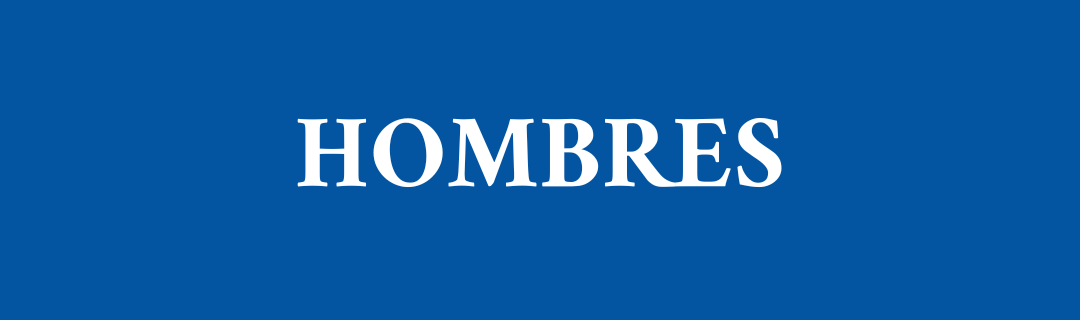
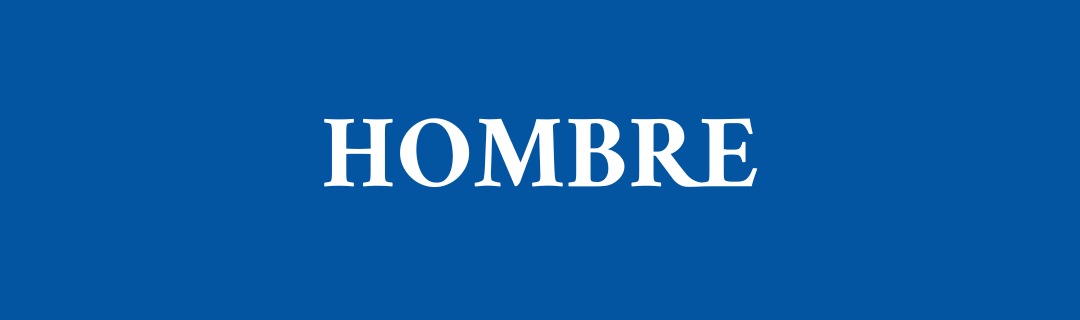
Styles Updated Home Page

Changed region(s): [[0.275, 0.3438, 0.7333, 0.5938]]

diff --git a/src/components/HomeContact/homeContact.css b/src/components/HomeContact/homeContact.css
@@ -4,15 +4,15 @@
   justify-content: center;
   align-items: center;
   width: 1120px;
-  background-color: rgb(250, 250, 250);
+  background-color: rgb(248, 248, 248);
   border-radius: 5px;
   padding: 70px;
   margin-bottom: 200px;
+  box-shadow: 2px 2px 10px 2px rgb(219, 219, 219);
 }
 
 .home-contact-title {
-  color: #000000;
-  border-bottom: 5px solid #f9c1fd;
+  color: #e54787;
   padding-bottom: 2px;
   margin-bottom: 20px;
   font-size: 40px;
@@ -30,10 +30,10 @@
   width: 80%;
   padding: 12px;
   margin-top: 50px;
-  background-color: #fff;
-  border: 2px solid rgb(235, 235, 235);
+  background-color: rgb(255, 255, 255);
   border-radius: 5px;
-  box-shadow: 2px 2px 10px 2px #e4e4e4;
+  border: 2px solid rgb(226, 226, 226);
+  box-shadow: 2px 2px 10px 2px rgb(221, 221, 221);
 }
 
 .home-contact-form-textarea {
@@ -41,11 +41,12 @@
   height: 120px;
   padding: 12px;
   margin-top: 50px;
-  background-color: #fff;
-  border: 2px solid rgb(235, 235, 235);
+  background-color: rgb(255, 255, 255);
   border-radius: 5px;
   resize: none;
-  box-shadow: 2px 2px 10px 2px #e4e4e4;
+  border: 2px solid rgb(226, 226, 226);
+  box-shadow: 2px 2px 10px 2px rgb(221, 221, 221);
+  transition: 0.5s;
 }
 
 .home-contact-form-input:active,
@@ -53,7 +54,7 @@
 .home-contact-form-textarea:active,
 .home-contact-form-textarea:focus {
   outline: none;
-  border: 2px solid rgb(184, 184, 184);
+  border: 2px solid rgb(119, 119, 119);
 }
 
 .home-contact-form-errors {
@@ -65,19 +66,19 @@
 }
 
 .home-contact-form-button {
-  margin-top: 30px;
+  margin-top: 40px;
   border: none;
-  padding: 7px 12px;
-  background-color: #000000;
+  padding: 12px 12px;
+  background-color: #e54787;
   color: #fff;
   width: 80%;
   border-radius: 5px;
-  box-shadow: 2px 2px 10px 2px #c7c7c7;
-  transition: 0.2s;
+  transition: 0.5s;
+  box-shadow: 2px 2px 10px 2px rgb(221, 221, 221);
 }
 
 .home-contact-form-button:hover {
-  background-color: rgb(51, 51, 51);
+  background-color: #e54786b4;
 }
 
 @media screen and (max-width: 1220px) {

diff --git a/src/components/Header/Header.jsx b/src/components/Header/Header.jsx
@@ -32,8 +32,8 @@ export default function Header() {
           <img src='/donnacalzados/assets/logo.png' alt='Logo' className='navbar-img' />
         </Navbar.Brand>
 
-        <Button variant='light' className='order-10 order-lg-2 ml-auto' style={{ backgroundColor: '#F9C1FD' }} data-bs-toggle='offcanvas' data-bs-target='#offcanvasExample' aria-controls='offcanvasExample'>
-          <BsCart />
+        <Button variant='light' className='order-10 order-lg-2 ml-auto' style={{ backgroundColor: '#E54787' }} data-bs-toggle='offcanvas' data-bs-target='#offcanvasExample' aria-controls='offcanvasExample'>
+          <BsCart style={{ color: '#fff' }} />
         </Button>
 
         <Navbar.Collapse id='responsive-navbar-nav'>
@@ -42,13 +42,13 @@ export default function Header() {
               Inicio
             </Nav.Link>
             <Nav.Link href='./#productos' className='text-dark mx-2'>
-              Hombres
+              Hombre
             </Nav.Link>
             <Nav.Link href='./#productos/mujeres' className='text-dark mx-2'>
-              Mujeres
+              Mujer
             </Nav.Link>
             <Nav.Link href='./#productos/ninos' className='text-dark mx-2'>
-              Niños
+              Niño/a
             </Nav.Link>
             <Nav.Link href='./#informacion' className='text-dark mx-2'>
               Información

diff --git a/src/pages/Products/products.css b/src/pages/Products/products.css
@@ -1,0 +1,66 @@
+.products {
+  display: flex;
+  flex-direction: column;
+  justify-content: center;
+  align-items: center;
+  width: 100%;
+}
+
+.products-title {
+  margin: 50px;
+  color: #000000;
+  margin-bottom: 60px;
+  margin-top: 100px;
+  font-size: 40px;
+  background-color: #e54787;
+  padding: 15px 30px;
+  border-radius: 5px;
+}
+
+.products-search {
+  display: flex;
+  flex-direction: row;
+  justify-content: center;
+  align-items: center;
+  position: relative;
+  width: 700px;
+  margin-bottom: 50px;
+}
+
+.products-search-input {
+  width: 100%;
+  padding: 20px;
+  border: 2px solid #a8a8a8;
+  border-radius: 20px;
+}
+
+.products-search-input:active,
+.products-search-input:focus {
+  border: 2px solid #292929;
+  outline: none;
+}
+
+.products-search-icon {
+  position: absolute;
+  right: 0;
+  font-size: 25px;
+  margin-right: 20px;
+  cursor: pointer;
+  color: #535353;
+}
+@media screen and (max-width: 700px) {
+  .home-title {
+    font-size: 30px;
+    text-align: center;
+    border-bottom: 0px;
+  }
+}
+
+@media screen and (max-width: 450px) {
+  .home-title {
+    font-size: 25px;
+    margin-top: 0px;
+    margin-bottom: 0px;
+    display: none;
+  }
+}

diff --git a/src/pages/Home/home.css b/src/pages/Home/home.css
@@ -13,12 +13,13 @@
 
 .home-title {
   margin: 50px;
-  color: #000000;
-  border-bottom: 5px solid #f9c1fd;
+  color: #e54787;
   padding-bottom: 2px;
   margin-bottom: 60px;
   margin-top: 100px;
   font-size: 40px;
+  padding: 15px 30px;
+  border-radius: 5px;
 }
 
 .home-products-button {
@@ -42,11 +43,6 @@
   .home-products-button {
     width: 90%;
   }
-
-  .home-img {
-    min-height: 400px;
-    object-fit: cover;
-  }
 }
 
 @media screen and (max-width: 700px) {
@@ -55,30 +51,18 @@
     text-align: center;
     border-bottom: 0px;
   }
-  .home-img {
-    min-height: 300px;
-  }
 }
 
 @media screen and (max-width: 600px) {
   .home-products-button {
     width: 80%;
   }
-
-  .home-img {
-    min-height: 250px;
-  }
 }
 
 @media screen and (max-width: 450px) {
   .home-title {
     font-size: 25px;
-    margin-top: 0px;
+    margin-top: 30px;
     margin-bottom: 0px;
-    display: none;
-  }
-
-  .home-img {
-    min-height: 210px;
   }
 }

diff --git a/src/pages/Home/Home.jsx b/src/pages/Home/Home.jsx
@@ -17,7 +17,7 @@ export default function Home() {
   return (
     <main className='home'>
       {/* <HomeBanner /> */}
-      <img className='home-img' src='../donnacalzados/assets/home/banner-copia.png' alt='banner' data-aos='fade-up' data-aos-offset='100' data-aos-easing='ease-in-sine' data-aos-duration='600' />
+      <img className='home-img' src='../donnacalzados/assets/home/banner.png' alt='banner' data-aos='fade-up' data-aos-offset='100' data-aos-easing='ease-in-sine' data-aos-duration='600' />
       <h2 className='home-title' data-aos='fade-up' data-aos-offset='200' data-aos-easing='ease-in-sine' data-aos-duration='600'>
         Descubrí nuestros calzados
       </h2>

diff --git a/src/components/HomeProducts/homeProducts.css b/src/components/HomeProducts/homeProducts.css
@@ -16,7 +16,7 @@
   width: 21%;
   margin-top: 40px;
   /* background: linear-gradient(#f9c1fd 70%, #fee9ff); */
-  background-color: rgba(0, 0, 0, 0.932);
+  background-color: rgba(250, 250, 250, 0.932);
   cursor: pointer;
   transition: 0.5s;
   box-shadow: 2px 2px 10px 2px rgb(190, 190, 190);
@@ -37,13 +37,14 @@
 .home-products-card-title {
   padding: 10px 5px;
   font-size: 18px;
-  color: #fff;
+  color: #e54787;
+  font-weight: 500;
 }
 
 .home-products-card-price {
   font-size: 12px;
   padding: 0px 5px 10px 5px;
-  color: #f9c1fd;
+  color: rgb(0, 0, 0);
 }
 
 @media screen and (max-width: 1220px) {

diff --git a/src/components/Footer/footer.css b/src/components/Footer/footer.css
@@ -4,7 +4,7 @@
   flex-direction: row;
   justify-content: space-evenly;
   align-items: center;
-  background-color: #f9c1fd;
+  background-color: #e54787;
   padding: 25px 0px;
 }
 
@@ -13,6 +13,7 @@
   flex-direction: row;
   justify-content: flex-start;
   align-items: flex-start;
+  margin-top: 10px;
 }
 
 .footer-container-title {
@@ -32,13 +33,13 @@
 
 .footer-container-info-icon {
   font-size: 20px;
-  color: #111;
+  color: #fff;
   margin-bottom: 20px;
 }
 
 .footer-container-info-text {
   font-size: 14px;
-  color: #111;
+  color: #fff;
   text-align: center;
 }
 

diff --git a/src/components/HomeInfo/homeInfo.css b/src/components/HomeInfo/homeInfo.css
@@ -4,7 +4,7 @@
   justify-self: center;
   align-items: center;
   width: 1110px;
-  background-color: #f9c1fd;
+  background-color: #e54787;
   padding: 30px;
   border-radius: 5px;
   margin-top: 50px;
@@ -22,6 +22,7 @@
 
 .home-info-container-logo {
   font-size: 50px;
+  color: rgb(0, 0, 0);
 }
 
 .home-info-container-texts {
@@ -34,10 +35,12 @@
 
 .home-info-container-texts h5 {
   font-size: 18px;
+  color: #fff;
 }
 
 .home-info-container-texts p {
   font-size: 14px;
+  color: #fff;
 }
 
 @media screen and (max-width: 1220px) {

diff --git a/src/pages/Products/Products.jsx b/src/pages/Products/Products.jsx
@@ -1,11 +1,16 @@
 import React from 'react';
+import { FaSearch } from 'react-icons/fa';
 
 import './products.css';
 
 export default function Products() {
   return (
-    <main>
-      <h1>Productos</h1>
+    <main className='products'>
+      <h1 className='products-title'>Calzados</h1>
+      <div className='products-search'>
+        <input className='products-search-input' type='text' placeholder='Buscar' />
+        <FaSearch className='products-search-icon' />
+      </div>
     </main>
   );
 }
